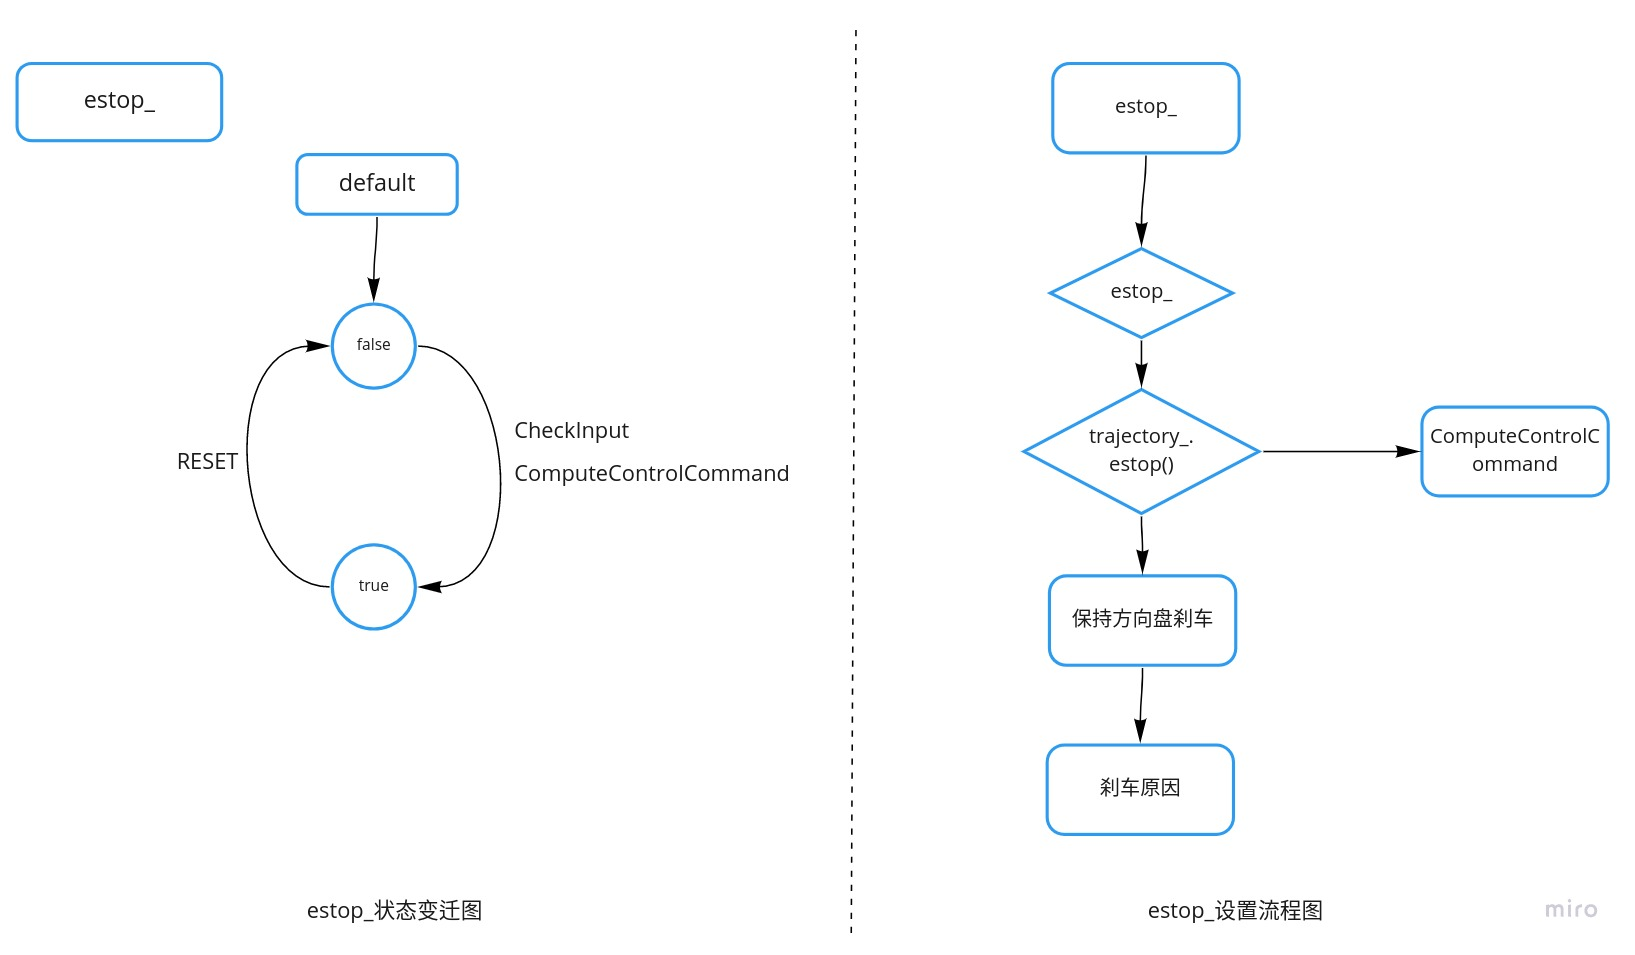
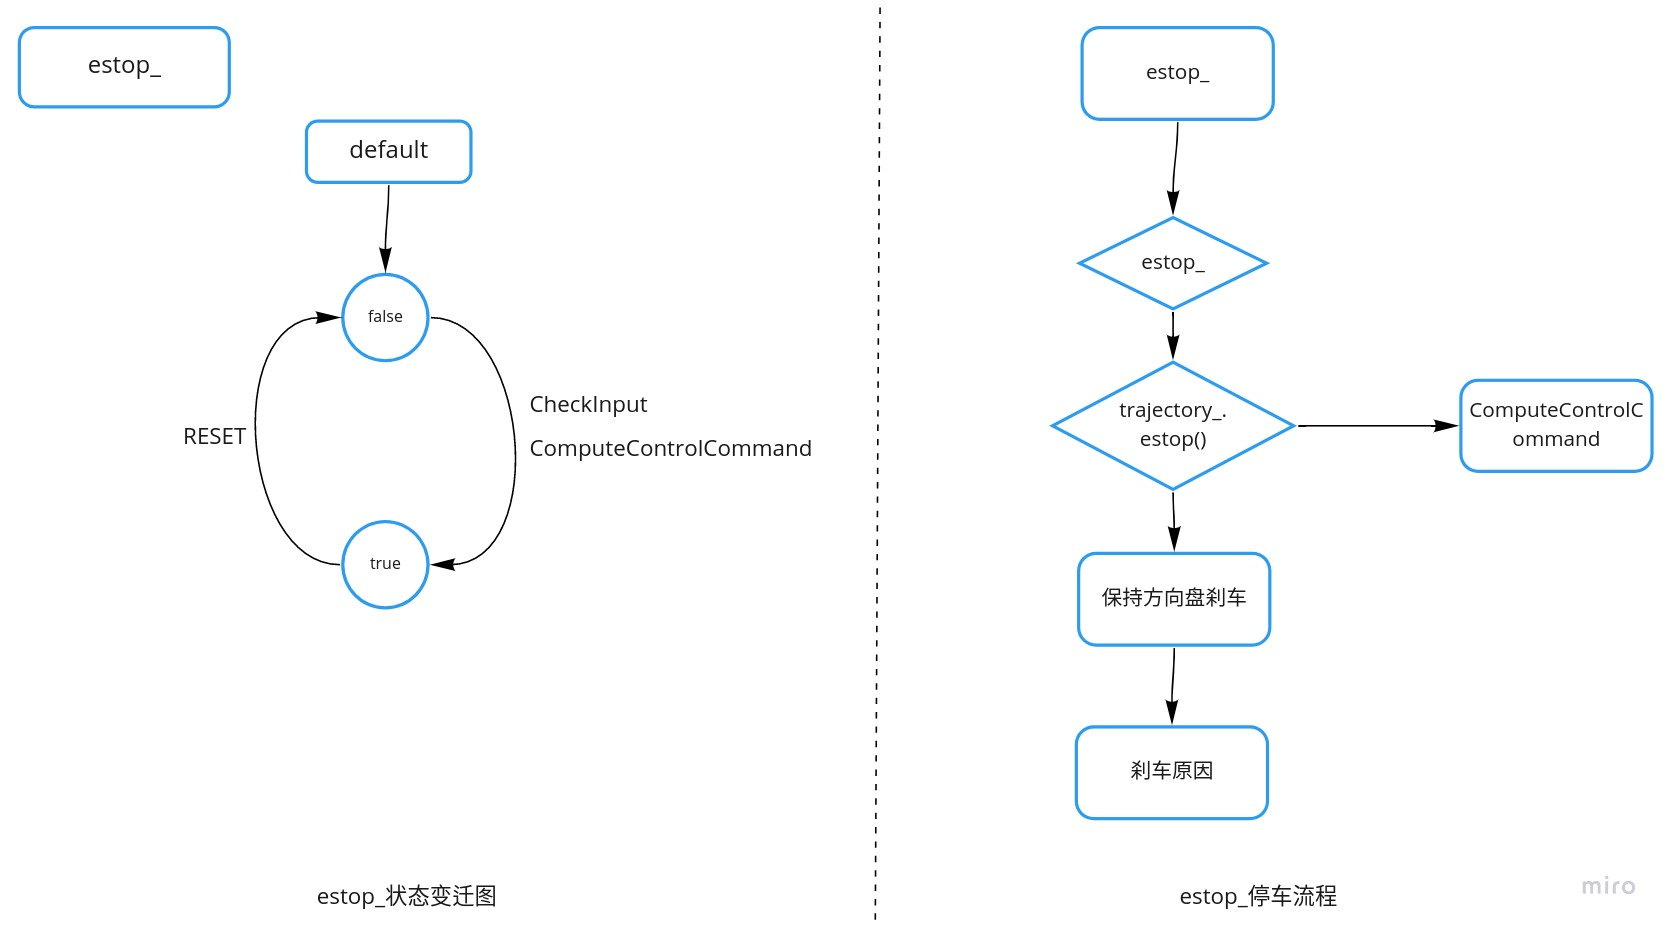
control

diff --git a/control/readme.md b/control/readme.md
@@ -145,12 +145,15 @@ enum DrivingAction {
 那么"estop_"有什么作用呢？  
 #### estop_标志位
 estop_标志位的作用是判断control模块是否处于紧急状态，而触发紧急停车。那么在哪些状态下，"estop_"为真，汽车进入紧急停车状态呢？  
-1. ****
-2. ****
-3. ****
-下面是"estop_"的状态变迁图和设置流程:  
+1. **输入错误(CheckInput返回false)**
+2. **计算控制命令失败(ComputeControlCommand失败)**
+3. **planning模块直接给出是否紧急停车** 
+下面是"estop_"的状态变迁图和紧急停车流程:  
 ![estop](img/estop.jpg)  
 
+紧急停车的流程很好理解，我们学驾照的时候都知道，紧急停车的时候不能够狂打方向盘，特别是高速的时候，容易侧翻，因此这里的紧急停车流程也是保持方向盘，然后紧急制动。  
+
+## 控制器
 
 
 
